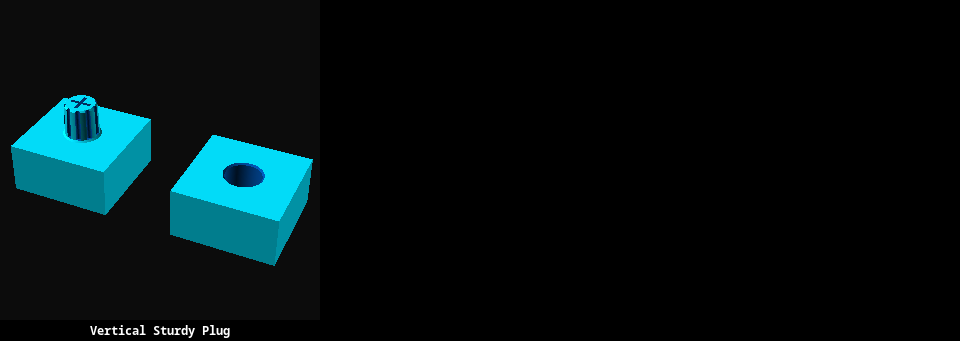
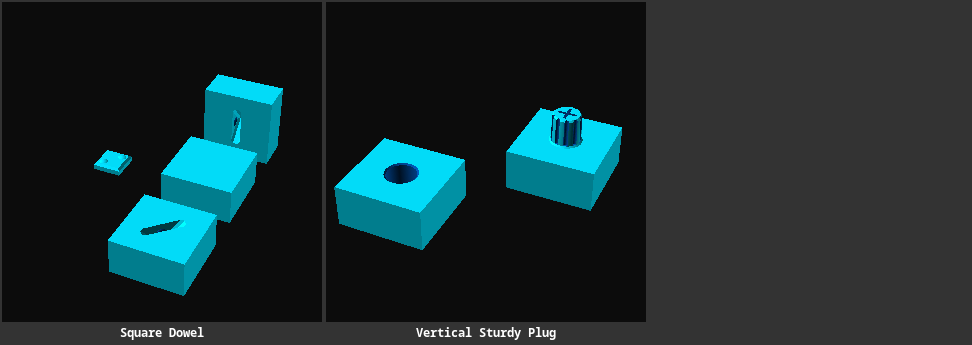
finish square-dowel, add to readme

diff --git a/parts/joining/README.md b/parts/joining/README.md
@@ -12,14 +12,29 @@ The 'sturdy' in the plug comes from several micro-features:
 - it has practically no infill itself, just many walls, caused by the ribbing and the cross-shaped cutout,
 - and the bottom chamfer adds more strength at the biggest stress point.
 
-> ![Sliced Vertical Sturdy Plug](./vertical-sturdy-plug-sliced.png)
+> ![Sliced Vertical Sturdy Plug](./assets/vertical-sturdy-plug-sliced.png)
 
 The chamfers at the tip and the hole's rim make insertion easy,
 and the outer hull of the plug is slightly slanted to increase friction the deeper the plug goes in, ultimately leading to a comfortable insertion but with a snug fit.
 
-> ![Printed Model](./vertical-sturdy-plug-printed.jpg)
+> ![Printed Model](./assets/vertical-sturdy-plug-printed.jpg)
 >
 > *Recommended print settings: Arachne walls, and Gyroid infill.*
 >
 
 The design principles were mostly lifted from [this YouTube video](https://www.youtube.com/watch?v=vsHpiHhB3RU&t=1499s).
+
+## Square Dowel
+
+This is a separately printed dowel — a flat, chamfered square block.
+It features two small bumps for a better friction fit in the joined parts.
+
+To join two half-cubes at one of their square faces, they sandwich a full dowel between them, to align the seam and merge them using the dowel's friction.
+
+The slot in the objects to join is always printed vertically when on a side,
+so overhangs are guaranteed to not exceed 45°. When on the bottom or the top, it should be rotated 45° to maximize distance from the object's sides.
+
+> ![Modeler Preview](./assets/square-dowel.png)
+
+The slots are created using the dowel shape with a small tolerance gap added.
+The dowel shape is used twice, so the small groove for the bump is on both sides.
